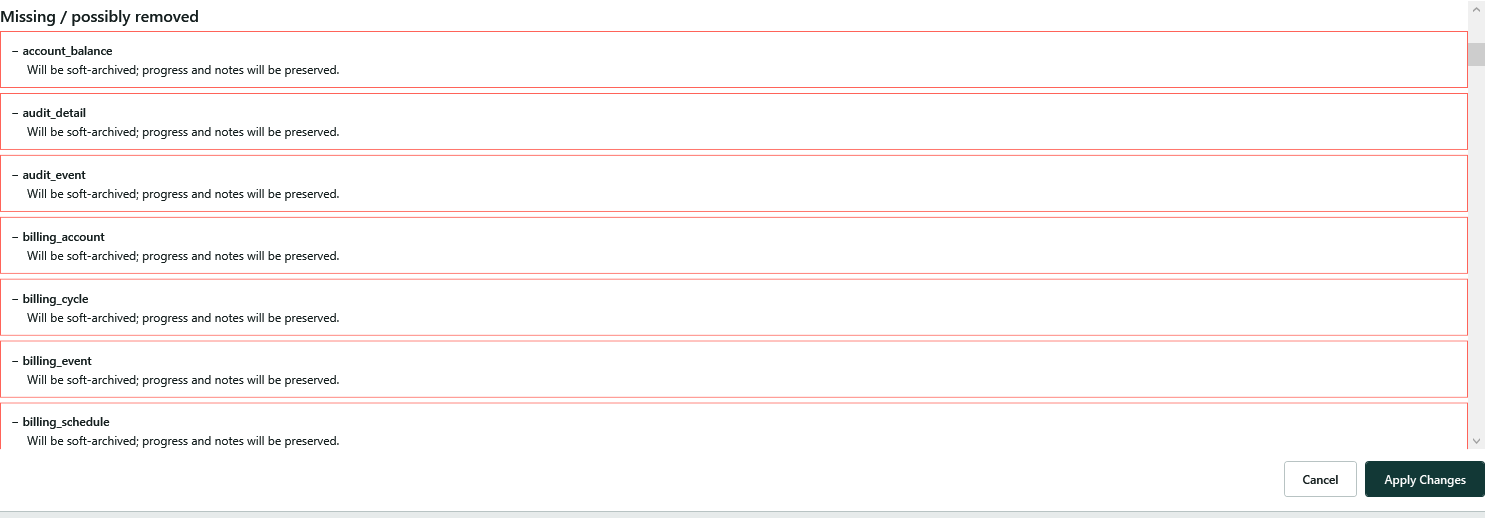
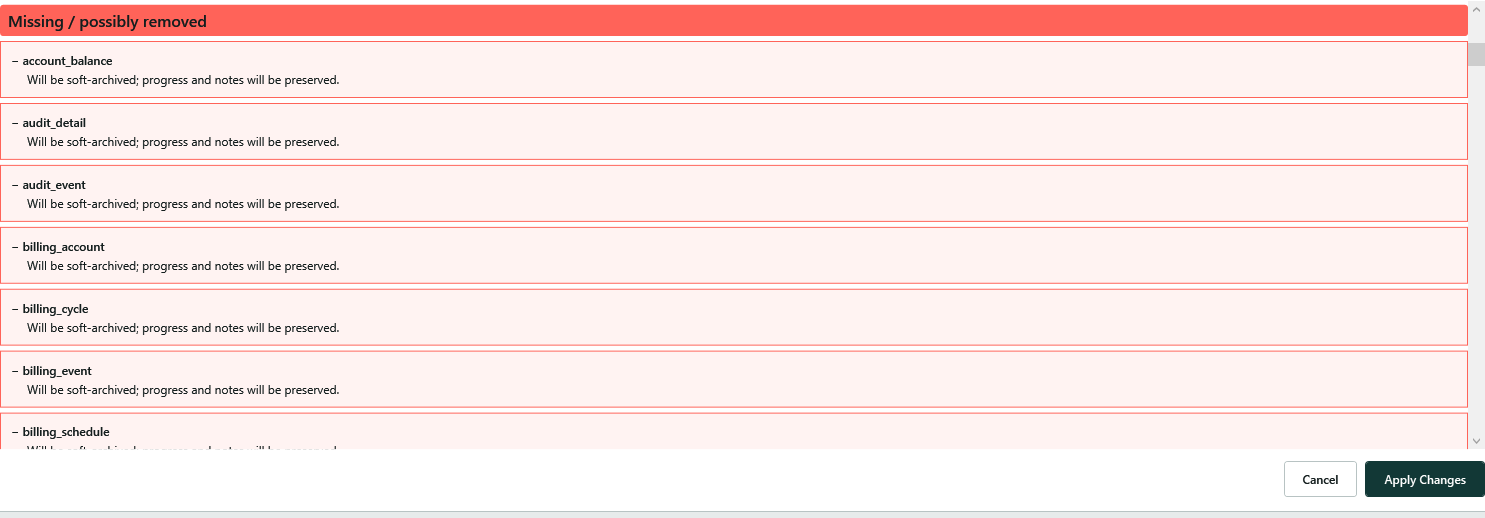
Update to boxes

Changed region(s): [[0.0, 0.0, 0.9912, 0.8649]]

diff --git a/src/EntityTracker.Wpf/MainWindow.xaml b/src/EntityTracker.Wpf/MainWindow.xaml
@@ -829,11 +829,22 @@
                                     <StackPanel x:Name="MissingReviewSection"
                                                 Margin="0,0,0,12"
                                                 Visibility="{Binding Review.HasMissingEntities, Converter={StaticResource BooleanToVisibilityConverter}}">
-                                        <TextBlock FontSize="16" FontWeight="SemiBold" Foreground="{StaticResource Brush.Text.Primary}" Text="Missing / possibly removed" />
+                                        <Border Padding="8,5"
+                                                Background="{StaticResource Brush.Review.Missing.Header}"
+                                                CornerRadius="3">
+                                            <TextBlock FontSize="16"
+                                                       FontWeight="SemiBold"
+                                                       Foreground="{StaticResource Brush.Text.Primary}"
+                                                       Text="Missing / possibly removed" />
+                                        </Border>
                                         <ItemsControl ItemsSource="{Binding Review.MissingEntities}">
                                             <ItemsControl.ItemTemplate>
                                                 <DataTemplate>
-                                                    <Border Margin="0,5,0,0" Padding="10" Background="{StaticResource Brush.Surface.Alert}" BorderBrush="{StaticResource Brush.Accent}" BorderThickness="1">
+                                                    <Border Margin="0,5,0,0"
+                                                            Padding="10"
+                                                            Background="{StaticResource Brush.Review.Missing.Surface}"
+                                                            BorderBrush="{StaticResource Brush.Review.Missing.Border}"
+                                                            BorderThickness="1">
                                                         <StackPanel>
                                                             <TextBlock FontWeight="SemiBold" Text="{Binding SourceName, StringFormat=− {0}}" />
                                                             <TextBlock Margin="16,3,0,0" Foreground="{StaticResource Brush.Text.Primary}" Text="{Binding Details}" TextWrapping="Wrap" />
@@ -875,14 +886,24 @@
                                     <StackPanel x:Name="UnresolvedReviewSection"
                                                 Margin="0,0,0,12"
                                                 Visibility="{Binding Review.HasUnresolvedEntities, Converter={StaticResource BooleanToVisibilityConverter}}">
-                                        <TextBlock FontSize="16" FontWeight="SemiBold" Foreground="{StaticResource Brush.Text.Primary}" Text="Unresolved dependencies" />
+                                        <TextBlock FontSize="16"
+                                                   FontWeight="SemiBold"
+                                                   Foreground="{StaticResource Brush.Review.Warning.Header}"
+                                                   Text="Unresolved dependencies" />
                                         <ItemsControl ItemsSource="{Binding Review.UnresolvedEntities}">
                                             <ItemsControl.ItemTemplate>
                                                 <DataTemplate>
-                                                    <Border Margin="0,5,0,0" Padding="10" Background="{StaticResource Brush.Surface.Subtle}" BorderBrush="{StaticResource Brush.Accent}" BorderThickness="1">
+                                                    <Border Margin="0,5,0,0"
+                                                            Padding="10"
+                                                            Background="{StaticResource Brush.Review.Warning.Surface}"
+                                                            BorderBrush="{StaticResource Brush.Review.Warning.Border}"
+                                                            BorderThickness="1">
                                                         <StackPanel>
                                                             <TextBlock FontWeight="SemiBold" Text="{Binding SourceName, StringFormat=! {0}}" />
-                                                            <TextBlock Margin="16,3,0,0" Foreground="{StaticResource Brush.Text.Primary}" Text="{Binding Details}" TextWrapping="Wrap" />
+                                                            <TextBlock Margin="16,3,0,0"
+                                                                       Foreground="{StaticResource Brush.Review.Warning.Text}"
+                                                                       Text="{Binding Details}"
+                                                                       TextWrapping="Wrap" />
                                                         </StackPanel>
                                                     </Border>
                                                 </DataTemplate>

diff --git a/src/EntityTracker.Wpf/Themes/EntityTrackerTheme.xaml b/src/EntityTracker.Wpf/Themes/EntityTrackerTheme.xaml
@@ -13,6 +13,12 @@
     <Color x:Key="Color.Brand.White">#FFFFFF</Color>
     <Color x:Key="Color.Brand.Coral">#FF6359</Color>
 
+    <!-- Synchronization review warning palette -->
+    <Color x:Key="Color.Review.Warning.Header">#9A5B1B</Color>
+    <Color x:Key="Color.Review.Warning.Surface">#FFF8DC</Color>
+    <Color x:Key="Color.Review.Warning.Border">#E5D28B</Color>
+    <Color x:Key="Color.Review.Warning.Text">#6E5A18</Color>
+
     <!-- Base brushes -->
     <SolidColorBrush x:Key="Brush.Brand.DarkGreen" Color="{StaticResource Color.Brand.DarkGreen}" />
     <SolidColorBrush x:Key="Brush.Brand.Green100" Color="{StaticResource Color.Brand.Green100}" />
@@ -50,6 +56,16 @@
     <SolidColorBrush x:Key="Brush.Overlay"
                      Color="{StaticResource Color.Brand.DarkGreen}"
                      Opacity="0.60" />
+
+    <SolidColorBrush x:Key="Brush.Review.Missing.Header" Color="{StaticResource Color.Brand.Coral}" />
+    <SolidColorBrush x:Key="Brush.Review.Missing.Surface"
+                     Color="{StaticResource Color.Brand.Coral}"
+                     Opacity="0.08" />
+    <SolidColorBrush x:Key="Brush.Review.Missing.Border" Color="{StaticResource Color.Brand.Coral}" />
+    <SolidColorBrush x:Key="Brush.Review.Warning.Header" Color="{StaticResource Color.Review.Warning.Header}" />
+    <SolidColorBrush x:Key="Brush.Review.Warning.Surface" Color="{StaticResource Color.Review.Warning.Surface}" />
+    <SolidColorBrush x:Key="Brush.Review.Warning.Border" Color="{StaticResource Color.Review.Warning.Border}" />
+    <SolidColorBrush x:Key="Brush.Review.Warning.Text" Color="{StaticResource Color.Review.Warning.Text}" />
 
     <SolidColorBrush x:Key="Brush.Status.NotStarted" Color="{StaticResource Color.Brand.Green40}" />
     <SolidColorBrush x:Key="Brush.Status.InProgress" Color="{StaticResource Color.Brand.Green80}" />

diff --git a/docs/design/DESIGN_GUIDE.md b/docs/design/DESIGN_GUIDE.md
@@ -21,6 +21,11 @@ Use semantic resources instead of choosing colors directly in individual screens
 
 The application icon is existing artwork and is not recolored by this guide.
 
+Synchronization review uses one additional warning palette for retained, non-fatal unresolved
+dependencies. Its centralized values are Warning Header `#9A5B1B`, Warning Surface `#FFF8DC`,
+Warning Border `#E5D28B`, and Warning Text `#6E5A18`. These values are not status colors and must
+not replace Coral for errors, removal, destructive actions, or blocked states.
+
 ## Contrast and text
 
 Normal text must meet a contrast ratio of at least 4.5:1. The combinations below satisfy that
@@ -50,10 +55,12 @@ Status colors are deliberately shared by the overview, progress dashboard, and P
 | Reconciled | Green 100% | Fully implemented/reconciled; use White text over the color |
 | Ready | Green 80% | Dependency-ready work |
 | Blocked/error/destructive | Coral | Always add a label, icon, or explanatory message |
+| Unresolved import warning | Warning palette | Retained non-fatal references in synchronization review only |
 
-Coral is the only accent color. Reserve it for conditions or actions that deserve attention rather
-than using it as decoration. Destructive actions require confirmation where the workflow already
-calls for it.
+Coral is the primary accent color. Reserve it for conditions or actions that deserve attention
+rather than using it as decoration. The synchronization-review warning palette is the sole
+exception and distinguishes retained, non-fatal unresolved references from removal/error states.
+Destructive actions require confirmation where the workflow already calls for it.
 
 ## Components and interaction states
 
@@ -66,8 +73,9 @@ calls for it.
 - Table headings use Green 10%, table separators use Green 20%, and selected rows use Green 20%.
 - Informational overlays use a translucent Dark Green scrim. Tooltips use Green 100% with White
   text.
-- Warnings and errors use a White surface with Coral border or icon and Dark Green explanatory
-  text.
+- Missing/removal and error states use Coral with Dark Green explanatory text. Synchronization
+  review uses a pale Coral fill for possibly removed entities and the dedicated yellow warning
+  palette for retained unresolved dependencies.
 - Charts use Dark Green for axes and labels, Green 20% for grid lines, the status mapping above for
   categories, Green 80% for positive/ready trends, and Coral for negative/blocked trends.
 
@@ -81,8 +89,9 @@ values to feature XAML.
 
 Reporting is intentionally independent of WPF. Its matching SkiaSharp values live in
 [`src/EntityTracker.Reporting/ProgressChartPalette.cs`](../../src/EntityTracker.Reporting/ProgressChartPalette.cs).
-This small duplication preserves project boundaries. Any palette or semantic status change must
-update the WPF theme, reporting palette, this guide, and the reporting palette tests together.
+This small duplication preserves project boundaries. Any shared brand or semantic status change
+must update the WPF theme, reporting palette, this guide, and the reporting palette tests together.
+Review-only warning colors do not belong in Reporting.
 
 Native Windows chrome and operating-system dialogs may retain system colors. New application-owned
 screens, overlays, charts, and exported visual reports must follow this guide.
